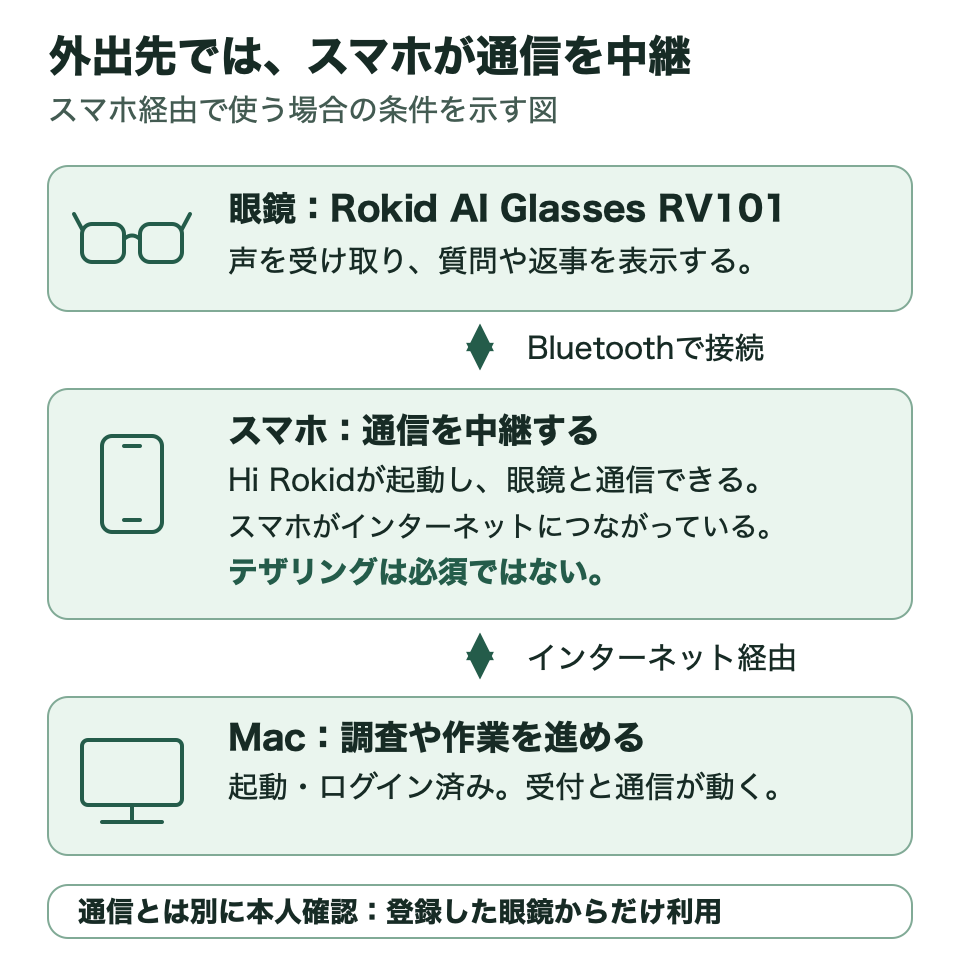
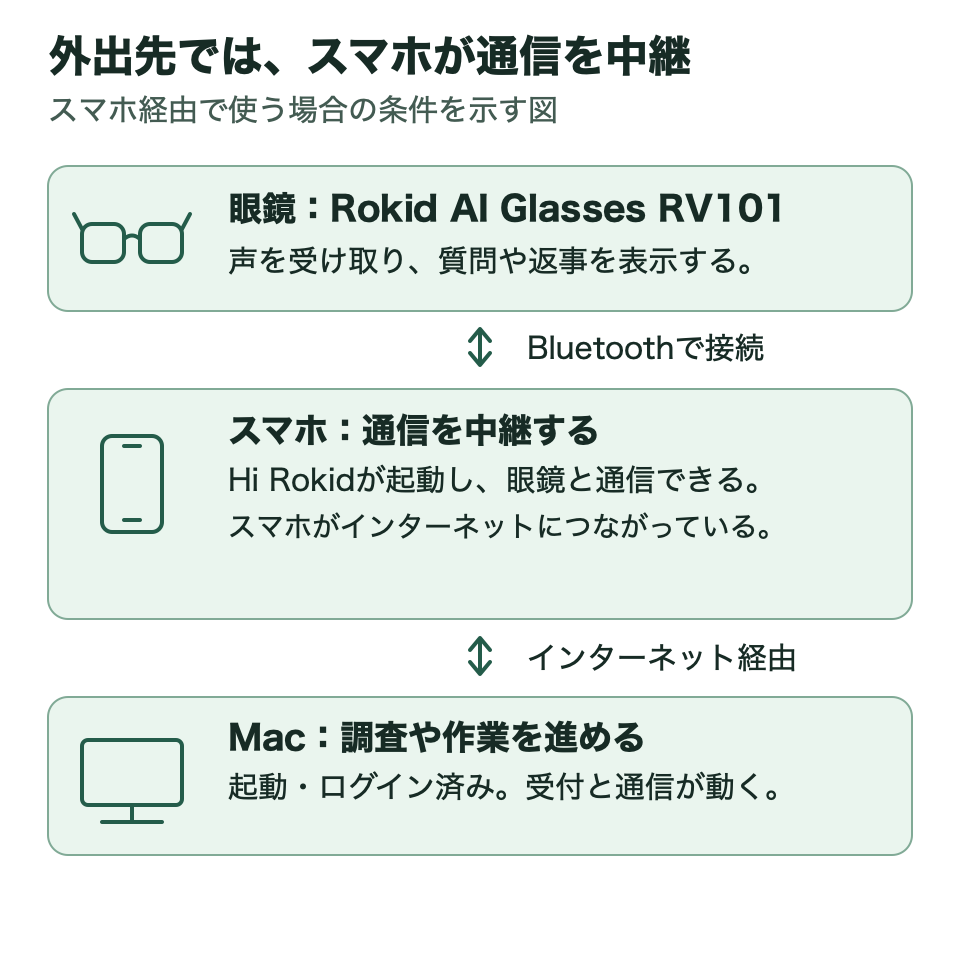
Simplify two diagrams and trim the exit explanation (#7)

diff --git a/docs/ARCHITECTURE.html b/docs/ARCHITECTURE.html
@@ -6,7 +6,7 @@
 <a class="brand" href="/rokid-personal-ai-v2/">私のAI V2</a><nav aria-label="共通"><a href="/rokid-personal-ai-v2/">トップ</a><a href="https://github.com/ksuzukigh/rokid-personal-ai-v2">GitHub</a></nav>
 </div></header><main id="content"><article><h1 id="仕組みをやさしく説明">仕組みをやさしく説明</h1>
 <p>眼鏡は、MacのChatGPTデスクトップアプリにあるChatGPT Workのチャットへ話しかける入口です。調査や文書作成は、そのチャットで進め、返事を眼鏡へ戻します。</p>
-<p><img src="/rokid-personal-ai-v2/images/system-overview.svg" alt="眼鏡で話し、MacのAIが相談や作業を進め、途中経過と返事を眼鏡へ戻す流れ" loading="lazy"></p>
+<p><img src="/rokid-personal-ai-v2/images/system-overview.png" alt="眼鏡で話し、Macで音声を文字にし、受付役のAIが相談先を案内し、ChatGPT Workが作業を進める。質問・途中経過・返事を眼鏡へ戻す流れ" loading="lazy"></p>
 <h2 id="声が返事になるまで">声が返事になるまで</h2>
 <ol>
 <li><strong>眼鏡で話す。</strong> テンプルのタッチ部分を1回タップしたときだけ録音を始め、音声をMacへ送ります。</li>
@@ -47,8 +47,8 @@
 </div><p>Macが使える資料やサービスは、利用者が接続した範囲に限られます。作者の環境では、メモ・資料を保存するObsidianや、Google Driveの文書などを利用しています。誰の環境でも同じ資料を使えるわけではありません。</p>
 <h2 id="外出先から使うには">外出先から使うには</h2>
 <p>スマホ経由で、自宅などにあるMacへ通信を届けます。次の状態が必要です。</p>
-<p><img src="/rokid-personal-ai-v2/images/away-connection.png" alt="外出時のスマホ中継の条件。眼鏡はBluetoothでHi Rokidとつながり、インターネットにつながったスマホがMacへ中継する。Macは起動とログイン済みで受付と通信が動く。登録済み眼鏡の本人確認は通信と別に必要" loading="lazy"></p>
-<p>図はスマホ経由で使う場合の条件です。テザリングを必須にするものではなく、すべての通信条件での実機確認を示すものでもありません。</p>
+<p><img src="/rokid-personal-ai-v2/images/away-connection.png" alt="外出時のスマホ中継の流れ。眼鏡はBluetoothでHi Rokidとつながり、インターネットにつながったスマホがMacとの通信を中継する。Macは起動とログイン済みで受付と通信が動く" loading="lazy"></p>
+<p>図はスマホ経由で使う場合の通信の流れです。</p>
 <ul>
 <li>スマートフォンが、携帯電話回線やWi-Fiでインターネットにつながっている。</li>
 <li>スマートフォンでHi Rokidアプリが起動し、眼鏡と接続して通信できる状態になっている。</li>

diff --git a/docs/EXPERIENCE.html b/docs/EXPERIENCE.html
@@ -40,8 +40,8 @@
 <p>音声認識は、周囲の声や話し方によって聞き違えることがあります。AIが確認を求めているとき、認識した返事が話の流れに合わなければ、その返事を同意として扱わず、もう一度尋ねます。</p>
 <p>また、眼鏡でAIの質問を読んだ後にMacからチャットを進めると、眼鏡の質問が古くなることがあります。そのときの「はい」を、新しい質問への同意には使いません。最新の内容を眼鏡に表示してから、改めて返事を受けます。</p>
 <h2 id="終わるとき通信が切れたとき">終わるとき、通信が切れたとき</h2>
-<p>終了するときはテンプルのタッチ部分をダブルタップし、眼鏡の録音と、その回の接続を終えます。ただし、Macですでに始まった仕事が取り消されるとは限りません。保存済みの文書などが元に戻るわけでもありません。</p>
-<p>通信が切れて返事が見えなくなったときは、Mac側の仕組みが、すでに送った依頼の進み具合を確認します。返事がないという理由だけで送り直さず、文書を二重に作ることを避ける設計です。</p>
+<p>終了するときは、テンプルのタッチ部分をダブルタップします。録音と、その回の接続を終えます。</p>
+<p>通信が切れて返事が見えなくなったときは、Mac側の仕組みが、送った依頼の進み具合を確認します。同じ依頼を重ねて送らず、その結果を確かめる設計です。</p>
 <p><a href="/rokid-personal-ai-v2/SAFETY.html">安心して使うための考え方</a> · <a href="/rokid-personal-ai-v2/VALIDATION.html">確認した範囲と制約</a> · <a href="/rokid-personal-ai-v2/index.html">トップへ</a></p>
 </article>
 <details class="pages"><summary>他の資料を読む</summary><nav aria-label="資料一覧"><ul><li><a href="/rokid-personal-ai-v2/CONCEPT.html">コンセプトと設計の理由</a></li>

diff --git a/docs/CHANGELOG.html b/docs/CHANGELOG.html
@@ -6,6 +6,13 @@
 <a class="brand" href="/rokid-personal-ai-v2/">私のAI V2</a><nav aria-label="共通"><a href="/rokid-personal-ai-v2/">トップ</a><a href="https://github.com/ksuzukigh/rokid-personal-ai-v2">GitHub</a></nav>
 </div></header><main id="content"><article><h1 id="変更履歴">変更履歴</h1>
 <p>この履歴は公開資料の版です。個人用AgentやMacサービスのアプリ版とは別に管理します。</p>
+<h2 id="docs-v207-2026-10-12">docs-v2.0.7 — 2026-10-12</h2>
+<ul>
+<li>「仕組みをやさしく説明」の構成図を、声・Macでの処理・返事の流れに整理。眼鏡のアイコンを描き直し、図中の不要な注意書きを削除。</li>
+<li>外出先の通信図の両方向矢印を、線と離れた矢尻で描き直した。図中と図の説明から、指定されたテザリング・本人確認の補足を削除。</li>
+<li>利用例の終了説明から指定された取消・復元の2文を削除。終了操作と通信切断時の説明を、短い別々の段落に整理。</li>
+<li>該当する2図と直接関連する説明、指定された終了説明のみを変更し、PNGと編集用SVG、生成README・補助HTMLを更新。ほかの図、アプリの動作・設定は変更していない。</li>
+</ul>
 <h2 id="docs-v206-2026-10-12">docs-v2.0.6 — 2026-10-12</h2>
 <ul>
 <li>利用場面、タップ操作、チャットの関係、確認のタイミング、スマホ中継、確認済み範囲を伝える図解6枚を追加。PNGと編集用SVGを収録し、既存の構成図は保持。</li>

diff --git a/docs/EXPERIENCE.md b/docs/EXPERIENCE.md
@@ -58,8 +58,8 @@ AIが必要なことを聞き返し、利用できる資料や道具を使って
 
 ## 終わるとき、通信が切れたとき
 
-終了するときはテンプルのタッチ部分をダブルタップし、眼鏡の録音と、その回の接続を終えます。ただし、Macですでに始まった仕事が取り消されるとは限りません。保存済みの文書などが元に戻るわけでもありません。
+終了するときは、テンプルのタッチ部分をダブルタップします。録音と、その回の接続を終えます。
 
-通信が切れて返事が見えなくなったときは、Mac側の仕組みが、すでに送った依頼の進み具合を確認します。返事がないという理由だけで送り直さず、文書を二重に作ることを避ける設計です。
+通信が切れて返事が見えなくなったときは、Mac側の仕組みが、送った依頼の進み具合を確認します。同じ依頼を重ねて送らず、その結果を確かめる設計です。
 
 [安心して使うための考え方](SAFETY.md) · [確認した範囲と制約](VALIDATION.md) · [トップへ](../README.md)

diff --git a/CHANGELOG.md b/CHANGELOG.md
@@ -2,6 +2,13 @@
 
 この履歴は公開資料の版です。個人用AgentやMacサービスのアプリ版とは別に管理します。
 
+## docs-v2.0.7 — 2026-10-12
+
+- 「仕組みをやさしく説明」の構成図を、声・Macでの処理・返事の流れに整理。眼鏡のアイコンを描き直し、図中の不要な注意書きを削除。
+- 外出先の通信図の両方向矢印を、線と離れた矢尻で描き直した。図中と図の説明から、指定されたテザリング・本人確認の補足を削除。
+- 利用例の終了説明から指定された取消・復元の2文を削除。終了操作と通信切断時の説明を、短い別々の段落に整理。
+- 該当する2図と直接関連する説明、指定された終了説明のみを変更し、PNGと編集用SVG、生成README・補助HTMLを更新。ほかの図、アプリの動作・設定は変更していない。
+
 ## docs-v2.0.6 — 2026-10-12
 
 - 利用場面、タップ操作、チャットの関係、確認のタイミング、スマホ中継、確認済み範囲を伝える図解6枚を追加。PNGと編集用SVGを収録し、既存の構成図は保持。
